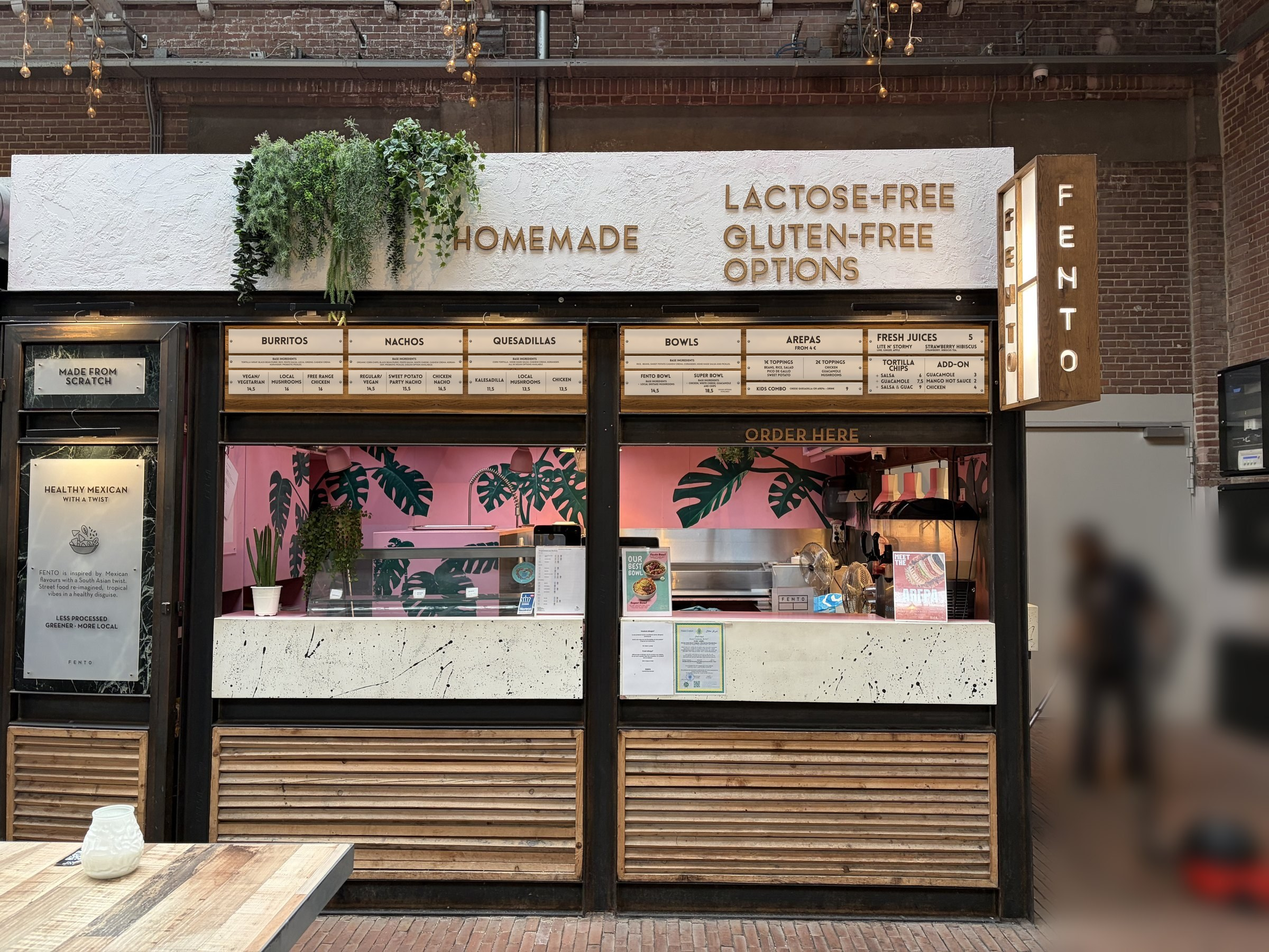
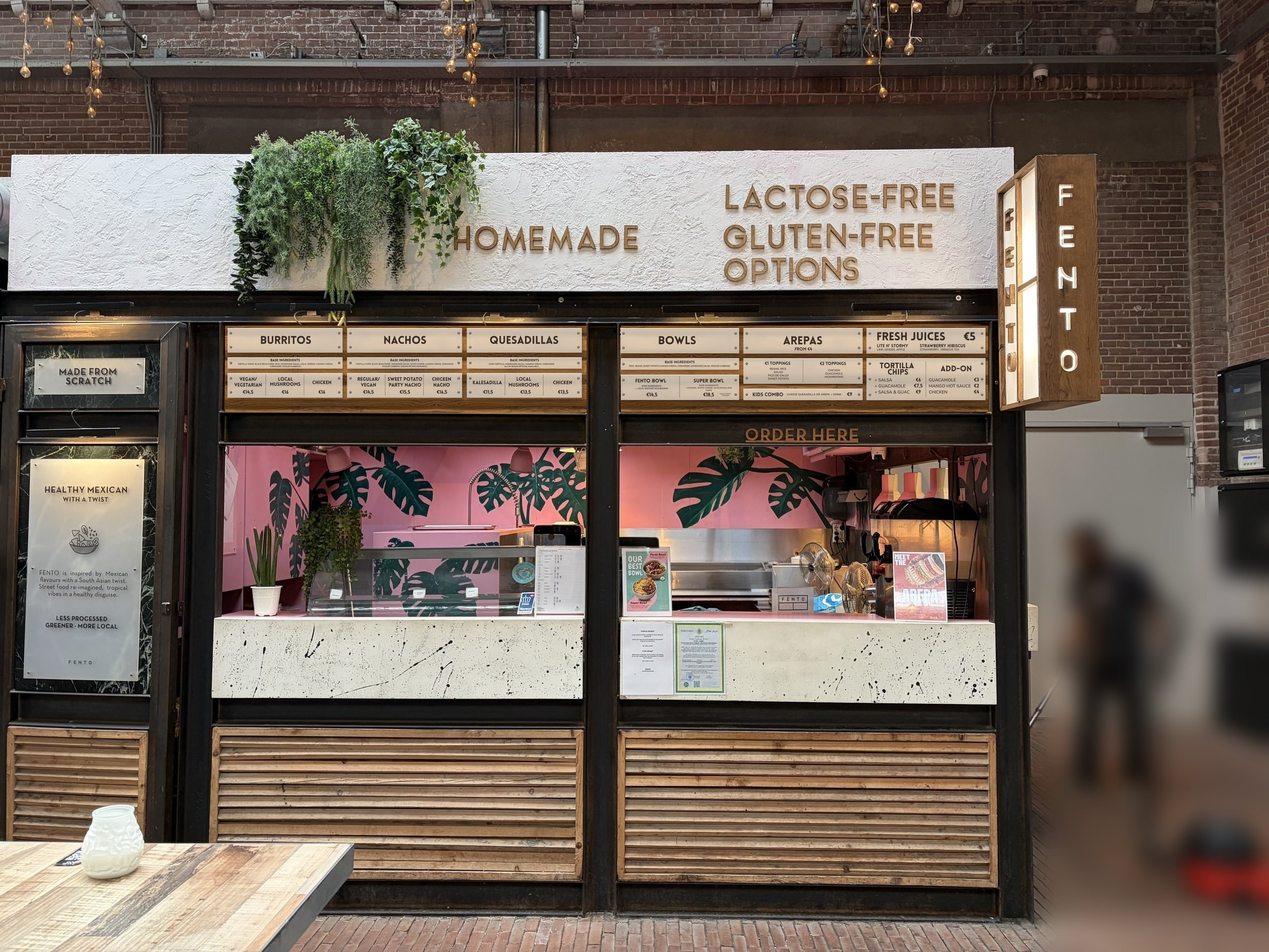
Menu boards at real measures (02/11 drawing)

Changed region(s): [[0.1562, 0.3422, 0.7812, 0.4356]]

diff --git a/index.html b/index.html
@@ -53,7 +53,7 @@
   <div class="tag l">Today</div><div class="tag r">New</div>
 </div>
 
-<footer>Menu artwork of 29/10. Draft mockup: tiles on the back wall only, about 10–13 cm. Side wall and pink counter cabinet stay as they are. Frosted acrylic plates, spaced as in the artwork files.</footer>
+<footer>Menu boards at real size (02/11 drawing: 49.2 cm wide, 2 cm between plates), placed where the current boards hang. Draft mockup: tiles on the back wall only, about 10–13 cm. Side wall and pink counter cabinet stay as they are. Frosted acrylic plates.</footer>
 
 <script>
   const st = { view:'', wall:'green' };
